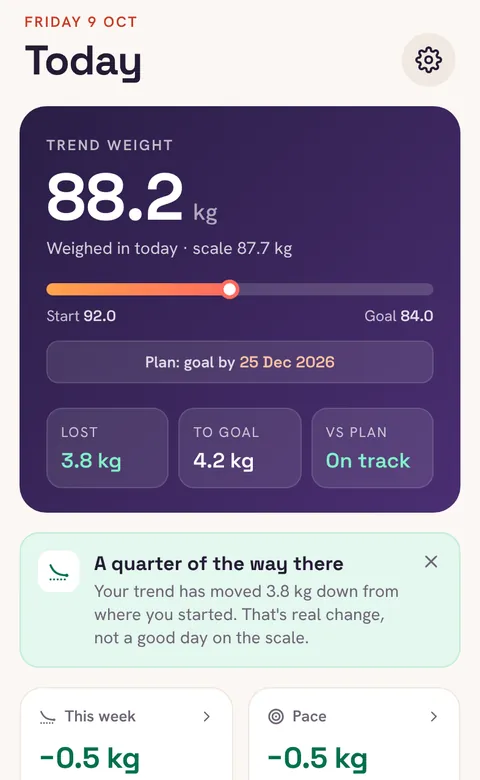
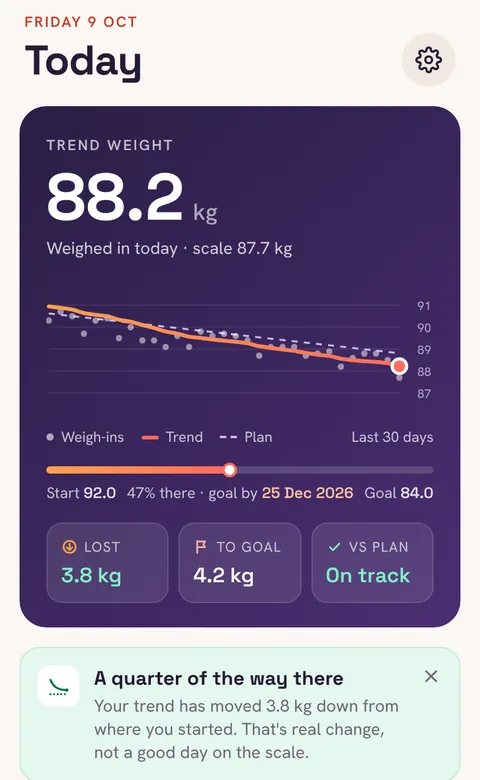
Website: the new Today screen, and widgets in testing
The intro and the Inside Tidemark deck show the redesigned Today screen (the
30-day chart in the hero), with captions and alt text to match. The two
widget cards move from Coming soon to In testing, and the note says widgets
are built and being tested; Apple Watch and the extra reminder choices stay
planned for an update.

Claude-Session: https://claude.ai/code/session_01NJzQ8Sbwud31aT5mXSmaWd

diff --git a/site/index.html b/site/index.html
@@ -341,7 +341,7 @@
 
       <div class="fan" id="fan">
         <figure class="card card-l"><img src="shots/trend.webp" width="600" height="1301" alt="The Trend screen: trend weight 88.2 kg, losing 0.5 kg a week, and a note that the last weigh-in dropped 0.8 kg while the trend moved 0.1 kg." decoding="async"></figure>
-        <figure class="card card-c"><img src="shots/today.webp" width="600" height="1301" alt="The Today screen: trend weight 88.2 kg, progress from 92 towards 84 kg, on track, and this week’s change." decoding="async"></figure>
+        <figure class="card card-c"><img src="shots/today.webp" width="600" height="1301" alt="The Today screen: trend weight 88.2 kg with the last 30 days charted behind it, daily weigh-ins as dots around a calm trend line and the plan dashed, then progress from 92 towards 84 kg and on track." decoding="async"></figure>
         <figure class="card card-r"><img src="shots/habits.webp" width="600" height="1301" alt="The Habits screen: this week’s ticks for water, steps and sleep." decoding="async"></figure>
       </div>
 
@@ -362,8 +362,8 @@
       <div class="deck" id="deck" role="region" aria-roledescription="carousel" aria-label="What Tidemark does" tabindex="0">
         <div class="deck-pile">
           <figure class="deck-card tone-plum">
-            <div class="deck-screen"><img src="shots/deck/today.webp" width="480" height="780" alt="The Today screen: trend weight 88.2 kg, progress from 92 towards 84 kg, and on track." loading="lazy" decoding="async" draggable="false"></div>
-            <figcaption><span class="tag tag-now">In the app</span><h3>Today, at a glance</h3><p>Your trend weight, how far you’ve come and whether you’re on track, the moment you open the app.</p></figcaption>
+            <div class="deck-screen"><img src="shots/deck/today.webp" width="480" height="780" alt="The Today screen: trend weight 88.2 kg with the last 30 days charted behind it, progress from 92 towards 84 kg, and on track." loading="lazy" decoding="async" draggable="false"></div>
+            <figcaption><span class="tag tag-now">In the app</span><h3>Today, at a glance</h3><p>Your trend with the last 30 days behind it: the weigh-ins jump about, the trend stays calm, and the plan is the dashed line.</p></figcaption>
           </figure>
           <figure class="deck-card tone-deep">
             <div class="deck-screen"><img src="shots/deck/trend.webp" width="480" height="780" alt="The Trend screen explaining that the last weigh-in dropped 0.8 kg but the trend moved only 0.1 kg." loading="lazy" decoding="async" draggable="false"></div>
@@ -405,11 +405,11 @@
           </figure>
           <figure class="deck-card tone-warm">
             <div class="deck-screen"><img src="shots/deck/widgets-home.webp" width="480" height="780" alt="A Home Screen with a medium Tidemark widget showing the trend chart, a small progress dial widget at 4.2 kg to go, and a habits widget at 2 of 3." loading="lazy" decoding="async" draggable="false"></div>
-            <figcaption><span class="tag tag-soon">Coming soon</span><h3>Widgets for your Home Screen</h3><p>Your trend and its chart, how far you are from your goal, and today’s habits, without opening the app.</p></figcaption>
+            <figcaption><span class="tag tag-soon">In testing</span><h3>Widgets for your Home Screen</h3><p>Your trend and its chart, how far you are from your goal, and today’s habits, without opening the app.</p></figcaption>
           </figure>
           <figure class="deck-card tone-deep">
             <div class="deck-screen"><img src="shots/deck/widgets-lock.webp" width="480" height="780" alt="A Lock Screen with Tidemark’s trend above the clock, a progress dial, the weekly rate, a trend card and a weigh-in reminder." loading="lazy" decoding="async" draggable="false"></div>
-            <figcaption><span class="tag tag-soon">Coming soon</span><h3>And your Lock Screen</h3><p>The trend above the clock, a progress dial and your weekly rate, in the wallpaper’s own tint.</p></figcaption>
+            <figcaption><span class="tag tag-soon">In testing</span><h3>And your Lock Screen</h3><p>The trend above the clock, a progress dial and your weekly rate, in the wallpaper’s own tint.</p></figcaption>
           </figure>
           <figure class="deck-card tone-plum">
             <div class="deck-art"><img class="deck-watch" src="shots/deck/watch-app.webp" width="420" height="433" alt="Apple Watch showing a trend weight of 88.2 kg, down 0.5 kg a week, a small chart and a Log weight button." loading="lazy" decoding="async" draggable="false"></div>
@@ -431,7 +431,7 @@
         </div>
         <p class="deck-sr" aria-live="polite"></p>
       </div>
-      <p class="extras-note"><span class="js-only">Drag the top card away, or use the arrows. </span>Everything marked “In the app” is in the first release. Widgets, Apple Watch and the extra reminder choices aren’t yet; they’re planned for an update, and the pictures of them are designs, so the finished versions may differ. Reminders are set up on your iPhone itself, so nothing is sent to a server.</p>
+      <p class="extras-note"><span class="js-only">Drag the top card away, or use the arrows. </span>Everything marked “In the app” is in the first release. Widgets are built and being tested on iPhone; Apple Watch and the extra reminder choices are planned for an update. The widget and Watch pictures are designs, so the finished versions may differ. Reminders are set up on your iPhone itself, so nothing is sent to a server.</p>
     </div>
   </section>
 
